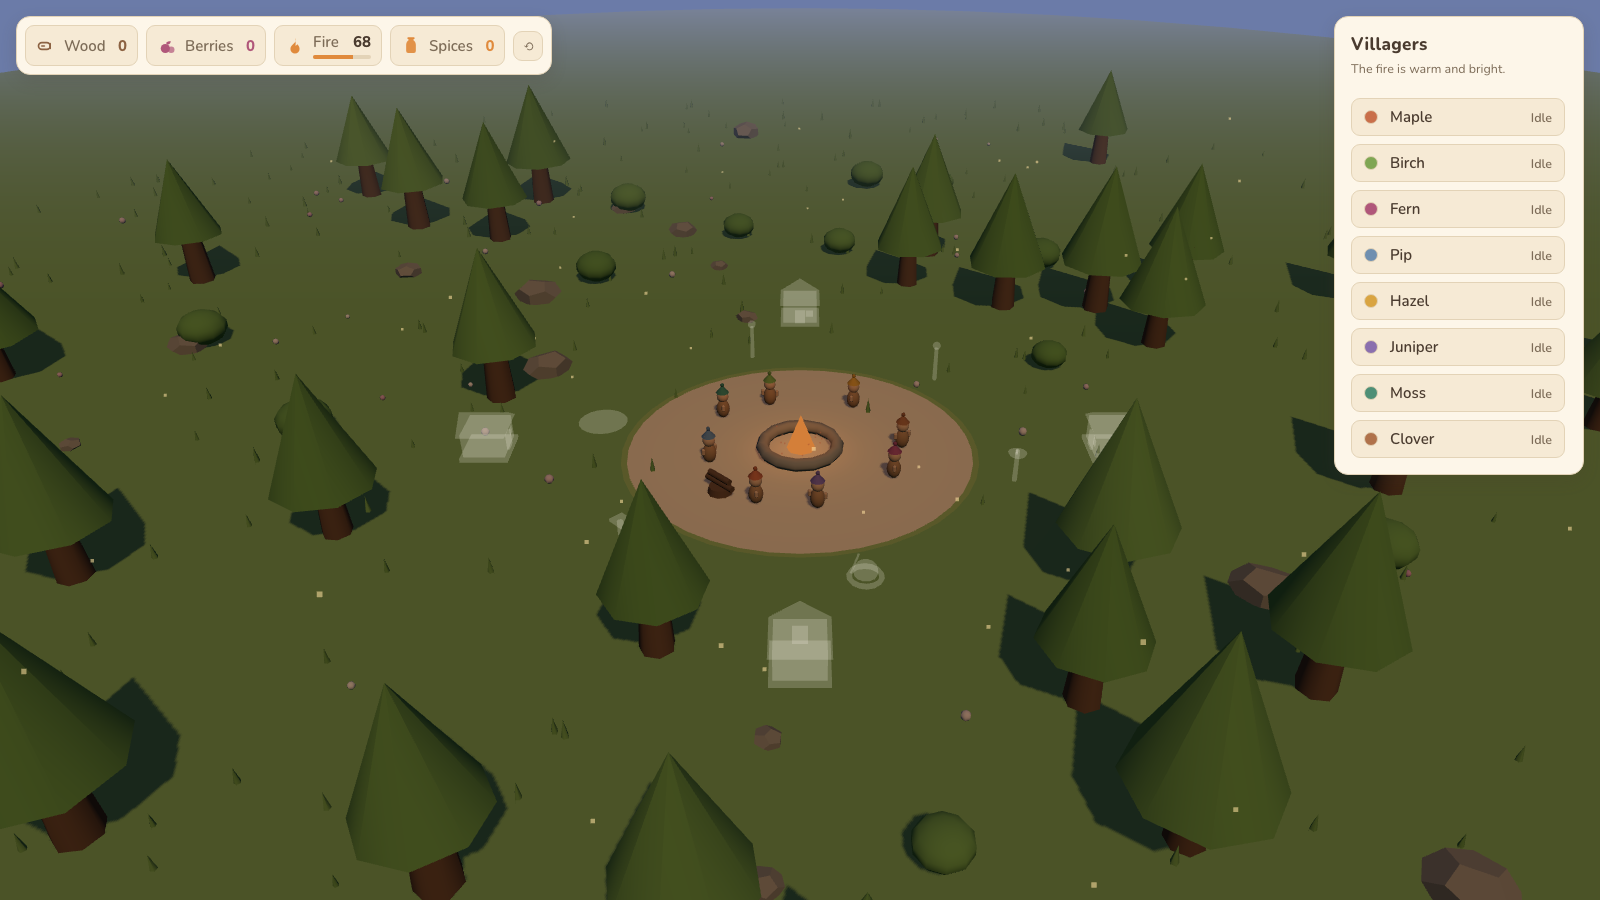
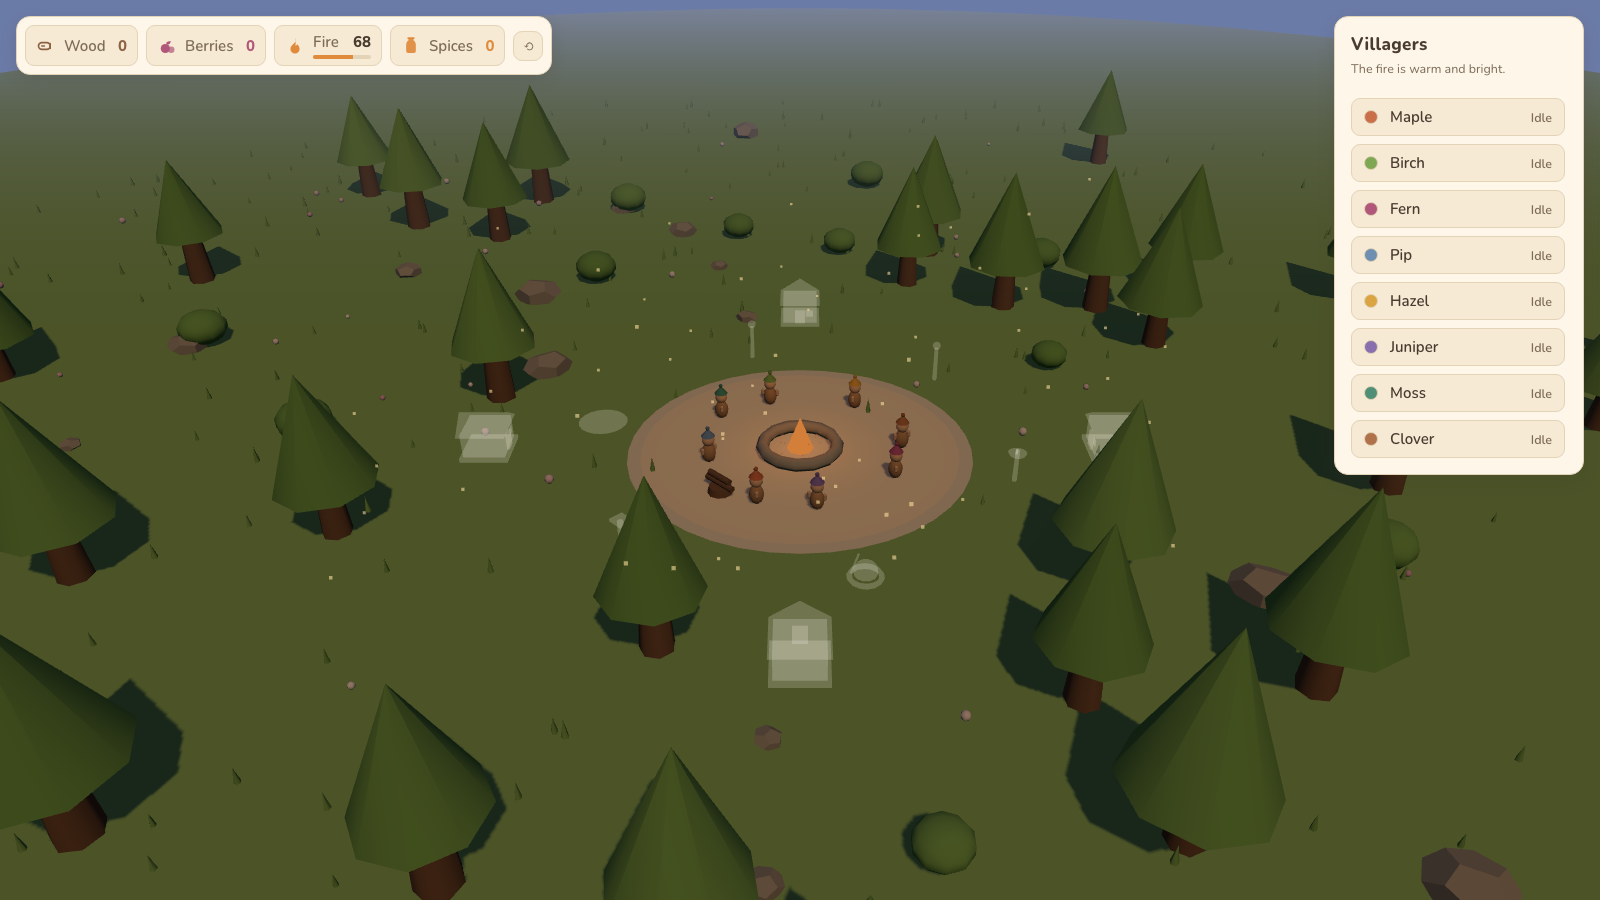
docs: batch-8 review + fix-round ledger (night re-shot)

diff --git a/docs/tasks/N-review-report.md b/docs/tasks/N-review-report.md
@@ -1,0 +1,139 @@
+# Independent review — batch 8 day/night cycle (wave N)
+
+**Reviewer:** fresh independent pass (not the previous wave's reviewer).
+**Scope:** spec `docs/superpowers/specs/2026-10-06-day-night-cycle-design.md`, plan
+`docs/superpowers/plans/2026-10-06-day-night-cycle.md`, DESIGN §3 / §3.2 / §3 persist / §6, the four
+task reports, and the wave diff `6712970` (N1) · `822af34` (N2) · `bed638e` (N3) · `a4f5c19` (N4) ·
+`ea62cfd` (docs).
+**Method:** read the committed files against the spec line-by-line; diffed each task; ran the gate.
+
+**Gate (re-run by this review):** `pnpm exec tsc --noEmit` → exit 0. `pnpm test` → **278 passed, 15
+files** (matches the stated baseline). Working tree clean; no files modified by this review except
+this report.
+
+**Verdict:** the wave is faithful to the spec and safe to keep. No Critical or blocking defect
+found. The clock, derivations, drift, rest stretch, v5 chain and daylight pipeline all match the
+binding rules, and the day/`night === 0` paths are byte-preserving by construction. The remaining
+issues are two test-coverage gaps on Review-Focus pin 3 and a handful of cosmetic/spec-letter
+deviations.
+
+---
+
+## Findings
+
+### Important
+
+**I1 — Review-Focus pin 3 is under-covered: no test pins the non-rest timers or run-to-run
+determinism.**
+`src/sim/daynight.test.ts:155-192` (and the file as a whole). The spec Part 6 requires that "work,
+cook, walk, and fed timers are untouched" and that "the drift is deterministic across identical
+runs", and the plan's Review-Focus 3 names "every non-rest timer is byte-identical" as an N1 test.
+The suite tests only `restMs` (6000/8250 vs 4000/5500); it never asserts `progressMs`/`fedMs` of a
+work/cook villager are unchanged by the batch, and it never compares two identical runs. The code is
+safe by construction (`restScale` returns exactly `1` by day and only the three `restMs` sites were
+touched — confirmed in the `6712970` diff), but the pin is not actually held by a test, so a future
+edit to the shared `walk()` path could regress work/cook/fed with nothing catching it.
+*Minimal fix:* add one table test that settles a chopper and a cook at `dayMs 240_000` and asserts
+`progressMs` climbs at exactly `WORK_PERIOD_MS`/`COOK_CHANNEL_MS` with `fedMs` decaying as before
+(i.e. snapshot the same scenario against a pre-batch expectation), plus a two-run deep-equal
+determinism check of a fixed dusk scenario.
+
+**I2 — The "seats never overlap" test can pass vacuously.**
+`src/sim/daynight.test.ts:102-126`. `runUntil` (`:20-26`) returns silently when its budget is
+exhausted, and the test's only real assertion is `distance(a,b) > 0.5`. If the drift never fired,
+both villagers would remain at their spawn points `(8,8)` / `(-8,-8)` — idle and ~22 units apart —
+so the assertion passes without the seats ever being exercised. The predicate that would prove the
+walk happened lives only inside `runUntil` and is never reported.
+*Minimal fix:* make `runUntil` return whether it satisfied the predicate and assert it, or, after the
+call, assert `Math.hypot(a.pos.x, a.pos.z) < 2.8 && Math.hypot(b.pos.x, b.pos.z) < 2.8` before the
+distance check. (The seat-distinctness itself is guaranteed by `(index + 0.5) × golden angle`; it is
+only the test that is weak.)
+
+### Minor
+
+**M1 — Fireflies are not "slightly denser near the fire" (spec Part 4).**
+`src/render/ambient.ts:159-181` (fixed `moteBase` scatter, `r ≤ 20`) and `:230-235` (only the sine
+drift is recolored/sped). Spec Part 4 lists the night motes as "warmer color, slower drift, a gentle
+blink, **slightly denser near the fire**"; the approved plan Step 3 dropped the density clause and
+the implementation followed the plan, so the fireflies keep the shipped uniform distribution.
+*Minimal fix:* at night bias a weighted subset of `moteBase` toward the origin (e.g. multiply
+`sqrt(hash01)` radius by `(1 − 0.5·night)`), or record the drop as an intentional deviation in the
+spec/plan so the letter and the code agree.
+
+**M2 — Golden angle duplicated as a bare literal.**
+`src/sim/index.ts:91` defines `WARM_SEAT_ANGLE = 2.399963` "same value as tasks.ts", while
+`src/sim/tasks.ts:31` owns `const GOLDEN_ANGLE = 2.399963` (not exported). Two copies of a binding
+constant can silently diverge.
+*Minimal fix:* export `GOLDEN_ANGLE` from `tasks.ts` and import it in `index.ts` (delete the local
+copy).
+
+**M3 — Mote positions are not byte-identical to pre-batch at day (phase offset).**
+`src/render/ambient.ts:99,227,232-234`. The mote sine phase now uses the integrated `driftSec`
+(0 at layer creation) instead of `timeSec` (`performance.now()/1000`). Colour, speed and opacity are
+exactly restored (verified: `copy(moteDay).lerp(moteNight, 0)` and factor `1`), but the *positions*
+of the motes at a given wall-clock differ from the pre-batch build by a constant phase. The spec's
+Part 4 "revert at dawn" and the plan's "restores the shipped color/speed/opacity exactly" do not
+require position identity, so this is acceptable — but it is the one place where day is not
+pixel-for-pixel the old build.
+*Minimal fix:* seed `driftSec = performance.now() / 1000` at layer creation if position identity is
+wanted; otherwise leave and note it.
+
+**M4 — Lantern globe material switched `MeshBasicMaterial` → `MeshLambertMaterial`.**
+`src/render/structures.ts:186-188`. The globe is now light-shaded by day (emissive `0`), where
+pre-batch it rendered unlit at full `PALETTE.sun`. This changes the lantern's daytime appearance,
+not just its dusk glow. The plan Step 1 explicitly asked for `MeshLambertMaterial`, so it is
+sanctioned, and there is no test for either the old or new look.
+*Minimal fix:* confirm the live pass accepted the new daytime look (it is only mentioned via "exact
+offsets curated live"); if not, keep the globe unlit and drive only the emissive ramp.
+
+**M5 — `daylightFor` scalar monotonicity is not asserted.**
+`src/render/daylight.test.ts:44-58` checks only Rec. 709 luminance of `sky`/`fog`/`ambientSky`;
+`ambientIntensity` and `sunIntensity` (both pure `mix()` outputs) have no monotonicity/endpoint
+assertion beyond the `dayFactor 1` values.
+*Minimal fix:* assert `ambientIntensity` and `sunIntensity` increase strictly across
+`0 < 0.5 < 1` (0.55→0.8, 0.95→1.6).
+
+---
+
+## Review-Focus pin coverage (plan §"Review Focus")
+
+| # | Pin | Status | Evidence |
+|---|---|---|---|
+| 1 | Reload mid-evening resumes exact `dayMs` | ✅ real test | `src/persist/index.test.ts:370-384` (`dayMs 400_000` round-trip) |
+| 2 | Giant-`dt` wrap keeps the clock exact | ✅ real test | `src/sim/daynight.test.ts:29-37` (incl. `DAY_MS × 17`) |
+| 3 | Evening rhythm deterministic / never fights the player; drift idle-only; assignment interrupts; day + non-rest timers byte-identical | ⚠ partial | drift-arrive `:89-100`, day-inert `:128-137`, mid-drift assignment `:139-152`, rest stretch `:156-192`. **Missing:** non-rest timer byte-identity, determinism across runs (I1); seats test vacuous (I2) |
+| 4 | `daylightFor` guardrails / no noon regression / monotonic | ✅ real test | `src/render/daylight.test.ts:17-58` (day exactness, twilight guardrails, luminance monotonic) |
+| 5 | v1 → v5 chain stays intact end-to-end | ✅ real test | `src/persist/index.test.ts:256-298` (village intact + clock default) |
+
+**Known live-only gaps (as flagged):** lantern/window emissive, species fade and firefly
+colour/speed/opacity are live-verified, not unit-tested (plan N4 Step 4 intentionally); and
+`src/ui/index.ts` still has no DOM test (no UI was added this batch, so nothing here is new).
+
+---
+
+## Spot-checks that pass (for the record)
+
+- Clock: single modulo `state.clock.dayMs = (dayMs + dtMs) % DAY_MS` in the `dtMs > 0` region,
+  before the villager loop (`src/sim/index.ts:276-279`); `DAY_MS - 100 + 100 → 0` and `0.25·DAY_MS +
+  17·DAY_MS → 0.25·DAY_MS` are exact in IEEE-754. Boundaries derived as integer ms
+  (`src/sim/clock.ts:15-18`); 0.5 midpoints exact.
+- Derivations are pure reads of `state.clock.dayMs`; boundary constants are exactly
+  43 200 / 105 600 / 374 400 / 436 800.
+- Drift: fires only for `'idle' && task === null` under `evening` (`src/sim/index.ts:344-374`);
+  `'walking' + task === null` is reachable only via the drift, so the `drifting` flag is exact
+  (`:516-540,600-610`); `assignTask` is untouched and its retarget path wins in the same call.
+- Rest stretch wraps all three `restMs` commit sites (`:627,631,635`); `restScale` is `1` by day and
+  the `6712970` diff touches no work/cook/walk/fed timer.
+- Persist: `isPlausibleClock` (`src/persist/index.ts:179-183`), `migrateV4toV5` default
+  `DAY_MS × FRESH_START_T` (`:247-249`), and `isPlausibleState` re-validation on every branch
+  (`:267-300`).
+- Render: DAY strip equals the shipped palette/intensities exactly at `dayFactor 1`; twilight sun
+  `#f6c98f` (not the plan's `#ffc98f`) is the correct call — the plan's own literal has R = 255/255,
+  which the same spec's `(8/255, 247/255)` guardrail forbids (documented at
+  `src/render/daylight.ts:44-56`). `night = 1 − dayFactor`; scratch semantics documented and
+  consumed in-frame (`src/render/index.ts:175-188`); `resolveFire`/fuel untouched
+  (`src/render/environment.ts:36-41`); `Environment.update` defaults `night` to 0.
+- N4: shared `lampMat`/`windowMat` written once per frame (`src/render/structures.ts:494-500`) and
+  exactly `0` at `dayFactor 1`; a single 2-tri window quad per hut on the `+z` front face
+  (`:388-393,404-410`); species fade below `dayFactor 0.35` via smoothstep and restored to scale 1
+  by day (`src/render/ambient.ts:193-195`); three species, no new dependencies, no UI change.

diff --git a/REPORT.md b/REPORT.md
@@ -85,6 +85,7 @@ the user re-instructs otherwise.
 | N2 | Batch-8: persist v5 chain | ✅ complete | `opencode-go/deepseek-v4.1-flash` | 1 | 278/278 ✅ (persist 43/43) · live: mid-dusk reload ✅ | 5/5 |
 | N3 | Batch-8: daylight pipeline | ✅ complete | `opencode-go/deepseek-v4.1-flash` | 1 | 278/278 ✅ · 3 tests · day strip exact ✅ | 5/5 |
 | N4 | Batch-8: glows + species swap | ✅ complete | `opencode-go/deepseek-v4.1-flash` | 1 | live: lantern + window + fireflies ✓ · console clean | 4.5/5 |
+| N-fix | Batch-8 review fix round (I1, I2, M1, M2, M5) | ✅ complete | deepseek-v4.1-flash ×3 (parallel) | 1 | 282/282 ✅ · night re-shot ✅ | 4.5/5 |
 
 ## Improvement candidates — round 1 (curated 10, easy → hard)
 
@@ -170,6 +171,19 @@ a 3D highlight for the selected structure.
   T2 — T2 replaces internals, signatures unchanged. Cost if wrong: none observed.
 - Notes: vite chunk-size warning (three.js bundle) accepted; dev-server port 5188 (5173 is used by the
   user's other projects).
+
+### 2026-10-06 — Batch-8 review fix round — 0 Critical · 2 Important · 5 Minor: 4 fixed, 2 accepted/recorded (3 parallel on deepseek)
+- **I1/I2 (Important, tests)** — the non-rest timers and two-run determinism are now pinned (work/cook
+  `progressMs` at exact periods, fed decay, deep-equal dusk runs), and the seats test can no longer
+  pass vacuously (both remedies: `runUntil` reports its predicate; explicit ring-radius asserts).
+  **M2**: `GOLDEN_ANGLE` single-sourced (`tasks.ts` export; local literal deleted).
+- **M5 (Minor, tests)** — daylight scalar monotonicity asserted; the model also caught the brief's
+  `0.675`-vs-`0.7` midpoint slip and asserted the true value.
+- **M1 (Minor)** — fireflies now genuinely gather toward the fire
+  (`×(1 − 0.5·night)` on the XZ scatter, byte-exact day restore); the night frame was re-shot.
+- **M3/M4 accepted, recorded**: the motes' day positions differ from pre-batch by a constant
+  invisible phase; the lantern globe is Lambert-shaded by day now (plan-sanctioned; day emissive 0).
+- Gates **282/282 (15 files)** · tree clean.
 
 ### 2026-10-06 — Batch-8 (day/night cycle) wave complete — 4 parallel tasks on `deepseek-v4.1-flash` (free quota exhausted)
 - **Provider saga**: the wave first went to the free roster (4× simultaneous rate-limit exhaustion),
